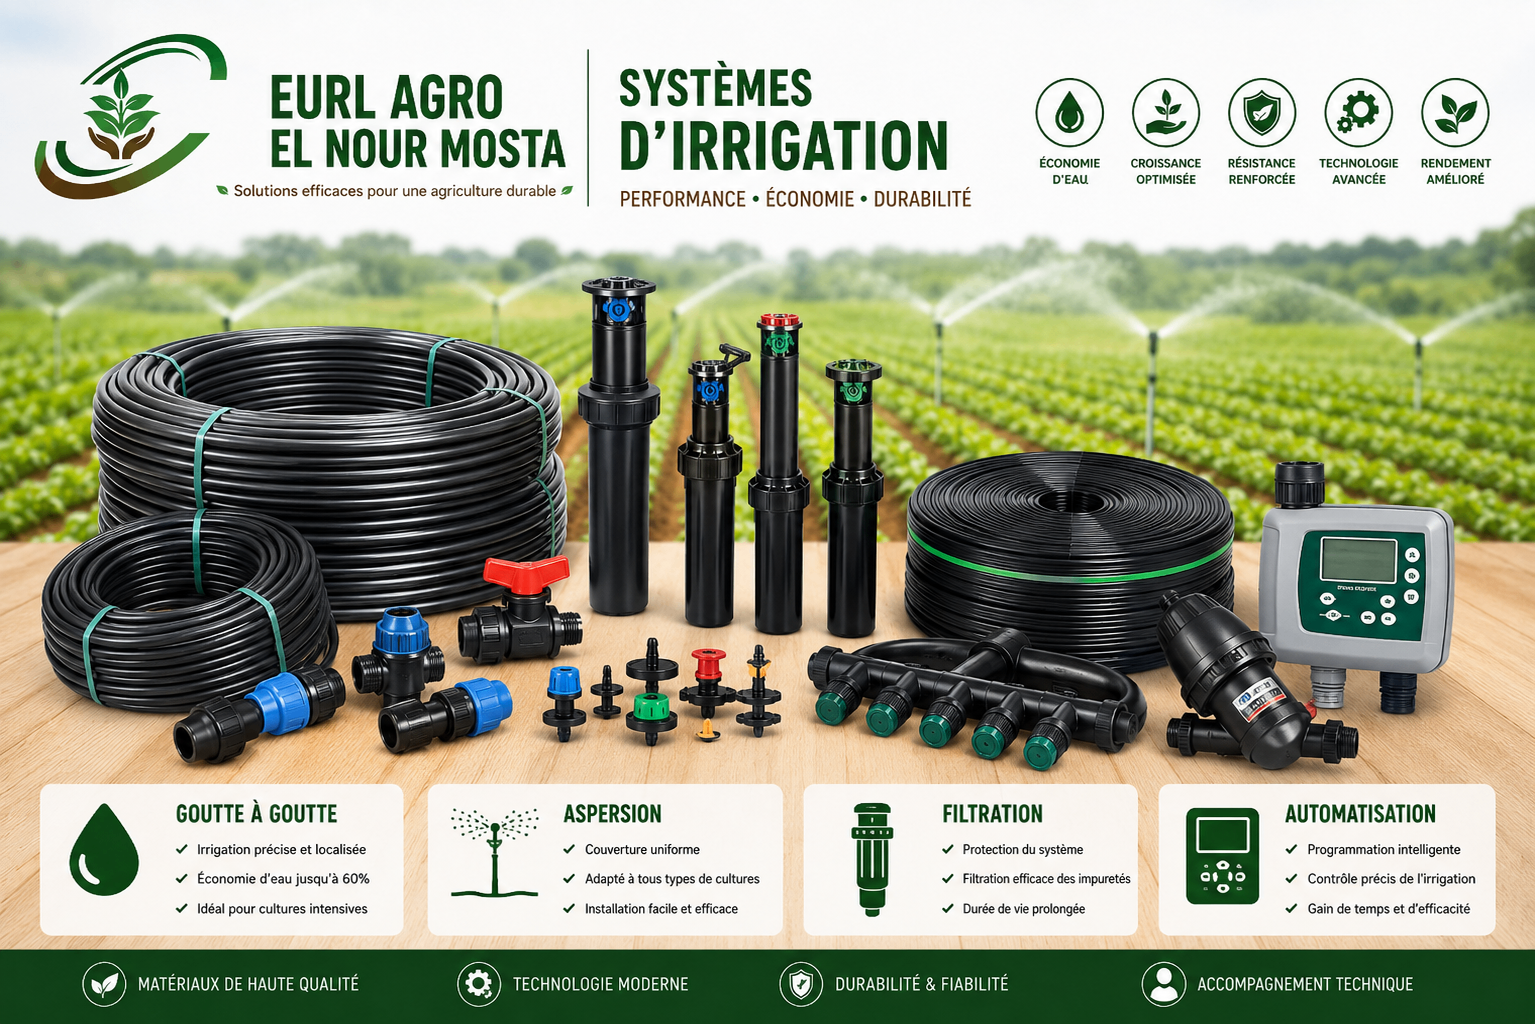
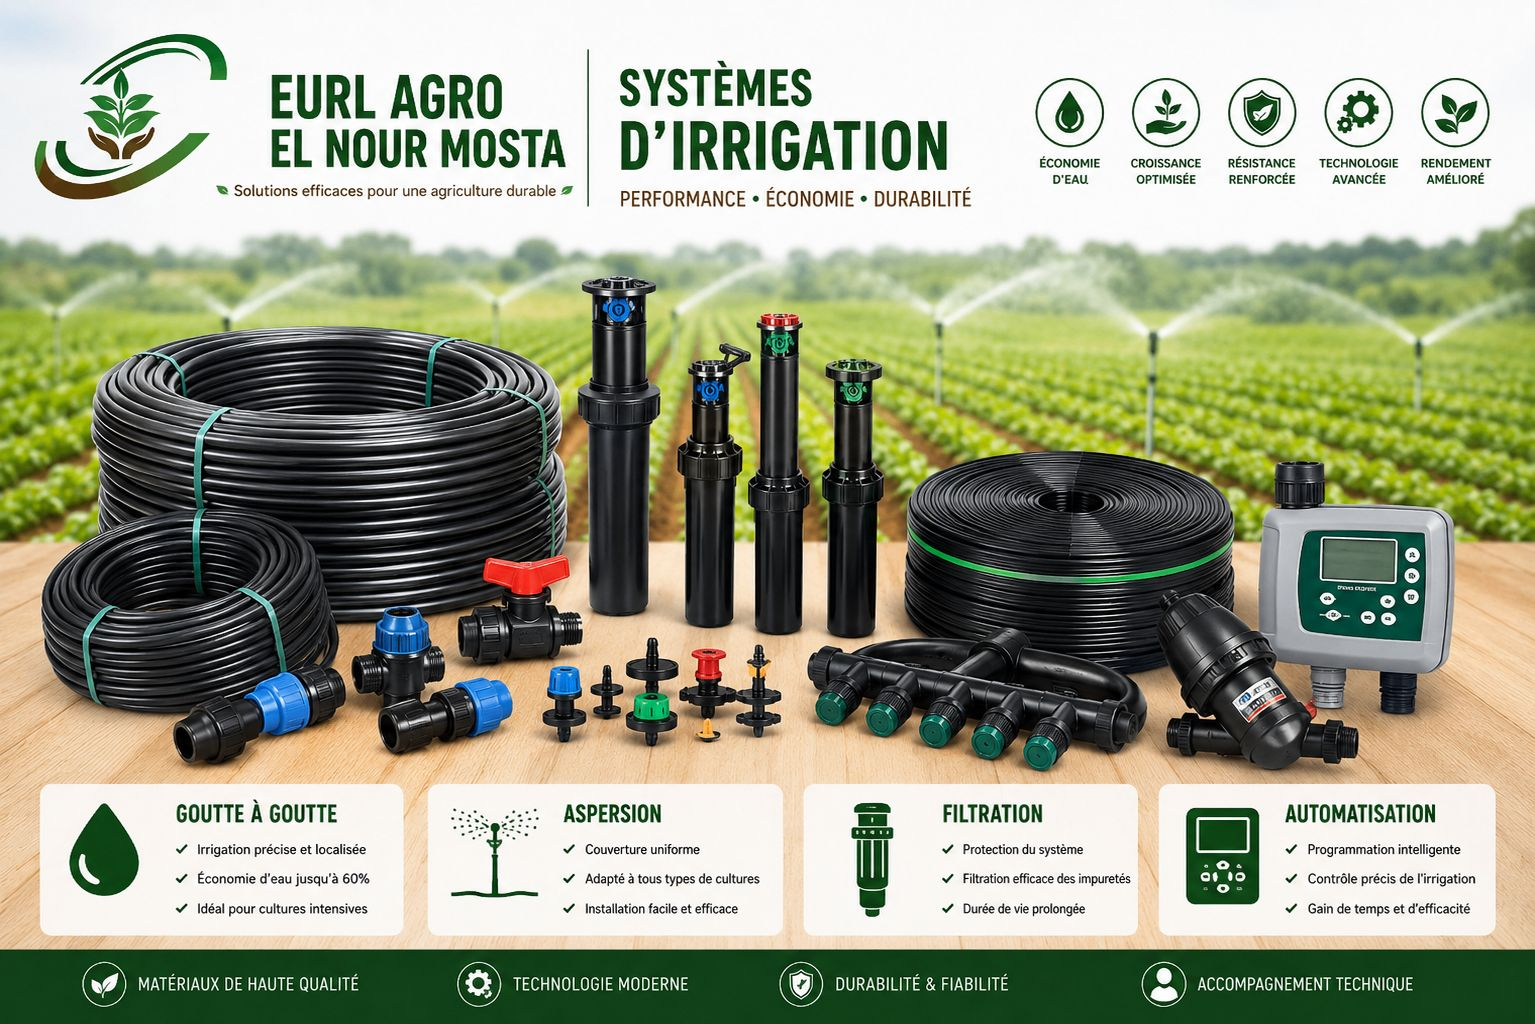
perf: compress images, convert gallery PNG to JPG, optimize loading

Changed region(s): [[0.4593, 0.375, 0.4899, 0.4062]]

diff --git a/index.html b/index.html
@@ -7,6 +7,8 @@
   <link rel="icon" type="image/x-icon" href="favicon.ico">
   <link rel="preconnect" href="https://fonts.googleapis.com" />
   <link rel="preconnect" href="https://fonts.gstatic.com" crossorigin />
+  <link rel="dns-prefetch" href="https://fonts.googleapis.com" />
+  <link rel="dns-prefetch" href="https://fonts.gstatic.com" />
   <link href="https://fonts.googleapis.com/css2?family=Montserrat:wght@400;500;600;700;800;900&family=Open+Sans:wght@300;400;500;600&display=swap" rel="stylesheet" />
   <style>
     /* ===================== RESET & BASE ===================== */
@@ -1157,7 +1159,7 @@
     <nav class="nav-inner">
       <a href="#hero" class="logo">
         <div class="logo-icon">
-          <img src="logo.png" alt="Logo Agro El Nour">
+          <img src="logo.jpg" alt="Logo Agro El Nour">
         </div>
         <div class="logo-text">
           <strong>AGRO EL NOUR</strong>
@@ -1289,6 +1291,7 @@
           src="about-photo.jpg"
           alt="Agriculture professionnelle"
           loading="lazy"
+          decoding="async"
         />
         <div class="about-img-card">
           <div class="about-img-card-icon">
@@ -1447,23 +1450,23 @@
     </div>
     <div class="gallery-grid">
       <div class="gallery-item reveal">
-        <img src="gallery-semences.png" alt="Semences" loading="lazy"/>
+        <img src="gallery-semences.jpg" alt="Semences" loading="lazy" decoding="async"/>
         <div class="gallery-overlay"><p data-lang data-fr="Semences" data-ar="بذور">Semences</p></div>
       </div>
       <div class="gallery-item reveal reveal-delay-1">
-        <img src="gallery-engrais.png" alt="Engrais" loading="lazy"/>
+        <img src="gallery-engrais.jpg" alt="Engrais" loading="lazy" decoding="async"/>
         <div class="gallery-overlay"><p data-lang data-fr="Engrais" data-ar="أسمدة">Engrais</p></div>
       </div>
       <div class="gallery-item reveal reveal-delay-2">
-        <img src="gallery-biostimulants.png" alt="Biostimulants" loading="lazy"/>
+        <img src="gallery-biostimulants.jpg" alt="Biostimulants" loading="lazy" decoding="async"/>
         <div class="gallery-overlay"><p data-lang data-fr="Biostimulants" data-ar="محفزات حيوية">Biostimulants</p></div>
       </div>
       <div class="gallery-item reveal reveal-delay-1">
-        <img src="gallery-pesticides.png" alt="Pesticides" loading="lazy"/>
+        <img src="gallery-pesticides.jpg" alt="Pesticides" loading="lazy" decoding="async"/>
         <div class="gallery-overlay"><p data-lang data-fr="Pesticides" data-ar="مبيدات">Pesticides</p></div>
       </div>
       <div class="gallery-item reveal reveal-delay-2">
-        <img src="service-irrigation.jpg" alt="Systèmes d'irrigation" loading="lazy"/>
+        <img src="service-irrigation.jpg" alt="Systèmes d'irrigation" loading="lazy" decoding="async"/>
         <div class="gallery-overlay"><p data-lang data-fr="Systèmes d'irrigation" data-ar="أنظمة الري">Systèmes d'irrigation</p></div>
       </div>
     </div>
@@ -1722,7 +1725,7 @@
       <div class="footer-brand">
         <a href="#hero" class="logo">
           <div class="logo-icon">
-            <img src="logo.png" alt="Logo Agro El Nour">
+            <img src="logo.jpg" alt="Logo Agro El Nour">
           </div>
           <div class="logo-text">
             <strong>AGRO EL NOUR</strong>

diff --git a/catalogue.html b/catalogue.html
@@ -200,7 +200,7 @@
   <div class="container">
     <nav class="nav-inner">
       <a href="index.html" class="logo">
-        <div class="logo-icon"><img src="logo.png" alt="Logo Agro El Nour"></div>
+        <div class="logo-icon"><img src="logo.jpg" alt="Logo Agro El Nour"></div>
         <div class="logo-text"><strong>AGRO EL NOUR</strong><span>MOSTA</span></div>
       </a>
 
@@ -460,7 +460,7 @@
     <div class="footer-grid">
       <div class="footer-brand">
         <a href="index.html" class="logo">
-          <div class="logo-icon"><img src="logo.png" alt="Logo Agro El Nour"></div>
+          <div class="logo-icon"><img src="logo.jpg" alt="Logo Agro El Nour"></div>
           <div class="logo-text"><strong>AGRO EL NOUR</strong><span>MOSTA</span></div>
         </a>
         <p data-lang data-fr="Votre partenaire de confiance pour une agriculture durable et performante." data-ar="شريككم الموثوق لزراعة مستدامة وفعالة.">Votre partenaire de confiance pour une agriculture durable et performante.</p>
